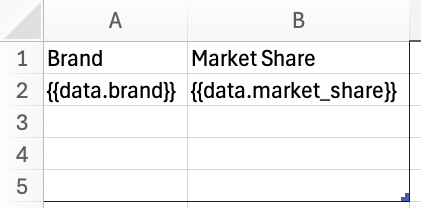
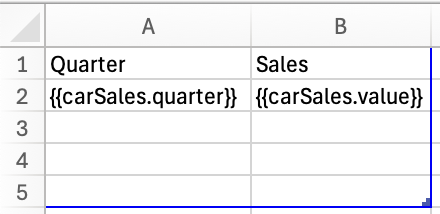
updated pie chart

diff --git a/src/pages/overview/document-generation-api/charts.md b/src/pages/overview/document-generation-api/charts.md
@@ -19,7 +19,7 @@ Steps to add chart in the document:
 - **Open your Word document** and place the cursor where you want the chart to appear.
 - **Go to the “Insert” tab** on the Ribbon.
 - **Click on “Chart”** in the Illustrations group.
-- **Choose the type of chart** you want from the list (e.g., column, line, pie) and click “OK”.
+- **Choose the type of chart** you want from the list (e.g. column, line, pie) and click “OK”.
 - An **Excel spreadsheet** will open with sample data. Replace this data with your own.
 - **Close the Excel** window once you’ve entered your data. The chart in Word will update automatically.
 
@@ -27,7 +27,17 @@ Steps to add chart in the document:
 
 ## Line Chart
 
-JSON representation of the input data:
+**Steps to insert a line chart in the document:**
+
+- Add the line chart as a placeholder in the document template.
+
+![PLaceholder for line chart](../images/placeholder_line_chart.png)
+
+- Edit the chart data in the Excel by right click on chart and select "Edit Data in Excel".
+
+![Edit chart data in Excel](../images/line_chart_excel.jpg)
+
+**JSON representation of the input data:**
 
 ```json
 {
@@ -95,26 +105,26 @@ JSON representation of the input data:
     }
   ]
 }
-
 ```
 
-Steps to insert a line chart in the document:
-
-- Add the line chart as a placeholder in the document template.
-
-![PLaceholder for line chart](../images/placeholder_line_chart.png)
-
-- Edit the chart data in the Excel by right click on chart and select "Edit Data in Excel".
-
-![Edit chart data in Excel](../images/line_chart_excel.jpg)
-
-- Output chart in document after processing.
+**Output chart in document after processing.**
 
 ![Output of line chart in document](../images/line_chart_output.png)
 
 ## Column Chart
 
-JSON representation of the input data:
+
+**Steps to insert a column chart in the document:**
+
+- Add the column chart as a placeholder in the document template.
+
+![PLaceholder for column chart](../images/placeholder_column_chart.png)
+
+- Edit the chart data in the Excel by right click on chart and select "Edit Data in Excel".
+
+![Edit chart data in Excel](../images/column_chart_excel.png)
+
+**JSON representation of the input data:**
 
 ```json
 {
@@ -144,67 +154,49 @@ JSON representation of the input data:
 }
 
 ```
-Steps to insert a column chart in the document:
 
-- Add the column chart as a placeholder in the document template.
-
-![PLaceholder for column chart](../images/placeholder_column_chart.png)
-
-- Edit the chart data in the Excel by right click on chart and select "Edit Data in Excel".
-
-![Edit chart data in Excel](../images/column_chart_excel.png)
-
-- Output chart in document after processing.
+**Output chart in document after processing.**
 
 ![Output of line chart in document](../images/column_chart_output.png)
 
 ## Pie Chart
 
-JSON representation of the input data:
-
-```json
-{
-  "Title": "Indian Car Brands Market Share",
-  "data": [
-    {
-      "brand": "Maruti Suzuki",
-      "market_share": 46
-    },
-    {
-      "brand": "Hyundai",
-      "market_share": 17
-    },
-    {
-      "brand": "Tata Motors",
-      "market_share": 14
-    },
-    {
-      "brand": "Mahindra",
-      "market_share": 7
-    },
-    {
-      "brand": "Kia",
-      "market_share": 6
-    },
-    {
-      "brand": "Others",
-      "market_share": 10
-    }
-  ]
-}
-
-
-```
-Steps to insert a pie chart in the document:
+**Steps to insert a pie chart in the document:**
 
 - Add the pie chart as a placeholder in the document template.
 
-![PLaceholder for pie chart](../images/placeholder_pie_chart.png)
+![PLaceholder for pie chart](../images/input1.png)
 
 - Edit the chart data in the Excel by right click on chart and select "Edit Data in Excel".
 
-![Edit chart data in Excel](../images/pie_chart_excel.png)
+![Edit chart data in Excel](../images/excel.png)
 
-- Output chart in document after processing.
+**JSON representation of the input data:**
 
-![Output of pie chart in document](../images/pie_chart_output.png)
+```json
+{
+  "Title": "Car Sales by Quarters",
+  "carSales": [
+    {
+      "quarter": "1st Qtr",
+      "value": 1500
+    },
+    {
+      "quarter": "2nd Qtr",
+      "value": 2000
+    },
+    {
+      "quarter": "3rd Qtr",
+      "value": 1800
+    },
+    {
+      "quarter": "4th Qtr",
+      "value": 2200
+    }
+  ]
+}
+```
+
+**Output chart in document after processing.**
+
+![Output of pie chart in document](../images/output1.png)
